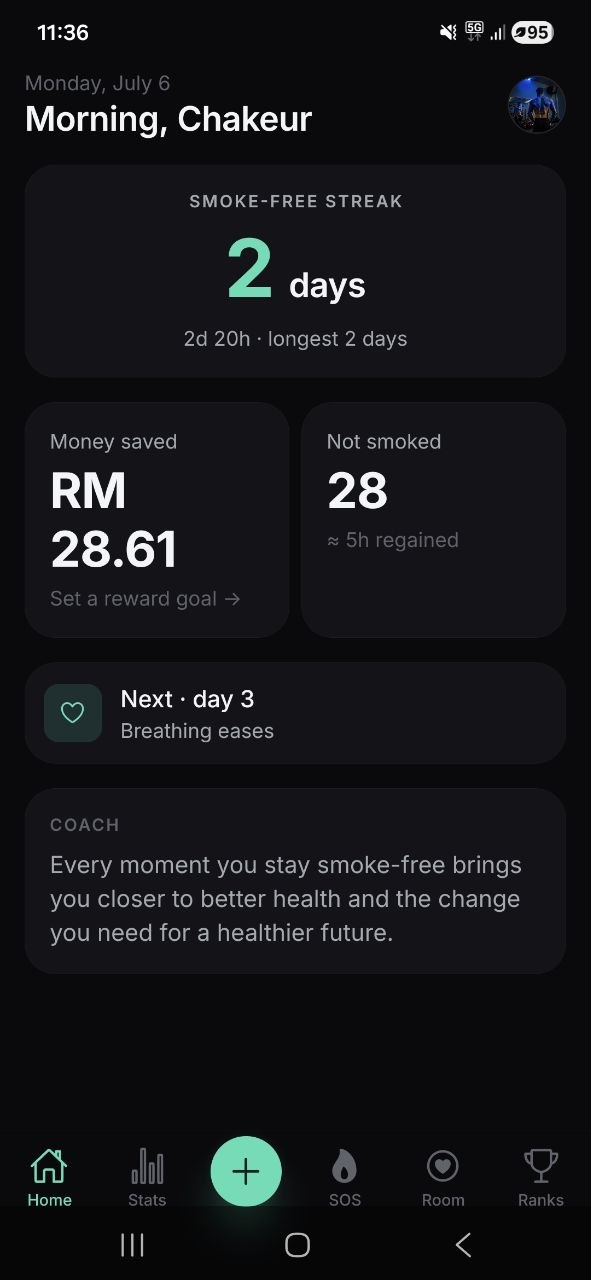
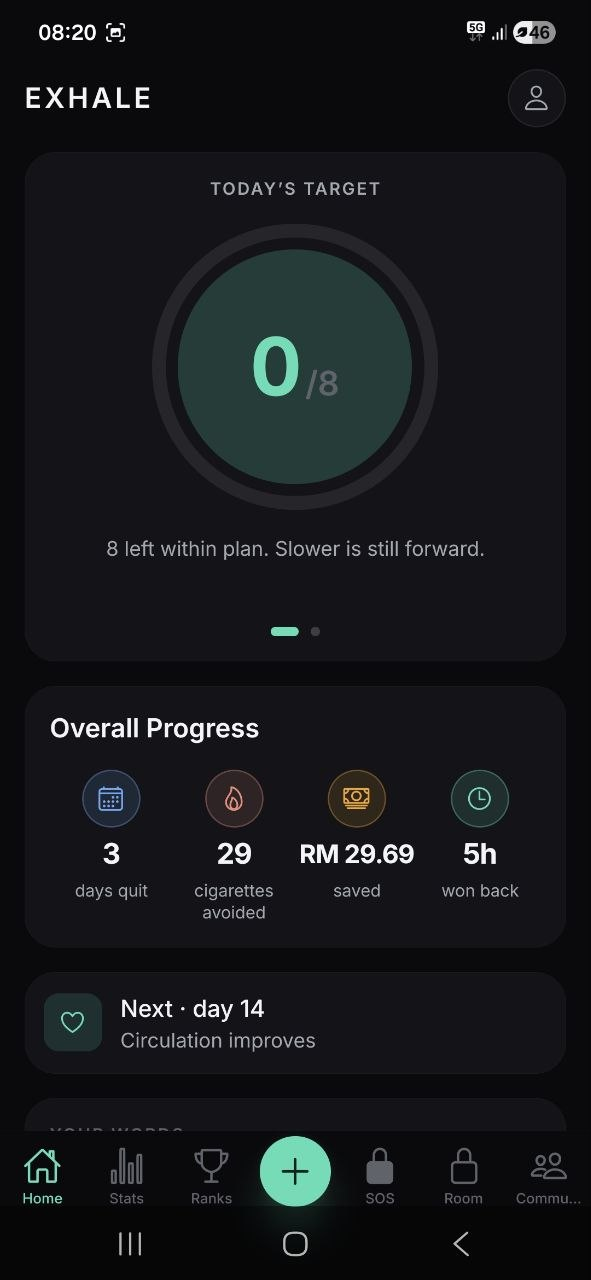
Landing: regional pricing + real lungs/community/home screenshots
Prices now match where the visitor is. Region comes from the browser alone --
IANA timezone first (Kuala_Lumpur/Kuching -> MY, London -> GB, euro-zone
capitals -> EU), then the locale's region tag, defaulting to US. No geo-IP
service: nothing to pay for, rate-limit, or leak the visitor's IP to.

A PRICING table maps region -> {monthly, yearly, free}; dictionary strings
carry {monthly}/{yearly} tokens that applyLang fills, so the price line and
the FAQ localize in all four languages (verified headless: MY/US/FR/AR all
render the right currency, no leaked tokens, console clean).

The table is DISPLAY ONLY -- Google Play charges what Play Console's regional
prices say. The comment on the table says to keep them in sync.

Also drops in the real screenshots: lungs.png and community.png (new slots)
and a re-captured home.png showing the lungs hero.

diff --git a/landing_page_exhale/js/i18n.js b/landing_page_exhale/js/i18n.js
@@ -4,6 +4,52 @@
    innerHTML (trusted, own content). Arabic flips the page to RTL.
    ───────────────────────────────────────────────────────────── */
 
+/* ── Regional pricing ────────────────────────────────────────
+   ⚠ These numbers are DISPLAY ONLY. Google Play charges whatever is set in
+   Play Console → Monetization → premium_monthly/annual → Regional prices.
+   Keep this table in sync with those — the page must never promise a price
+   the store won't honor. Add a row per country you price explicitly;
+   everyone else sees the US price.                                        */
+const PRICING = {
+  US: { monthly: '$3.99', yearly: '$35.99', free: '$0' },
+  MY: { monthly: 'RM 15.90', yearly: 'RM 142.90', free: 'RM 0' },
+  GB: { monthly: '£2.99', yearly: '£26.99', free: '£0' },
+  EU: { monthly: '€3.49', yearly: '€30.99', free: '€0' },
+};
+
+const EU_REGIONS = ['FR', 'DE', 'ES', 'IT', 'NL', 'BE', 'PT', 'IE', 'AT', 'FI', 'GR'];
+
+/* Country from the browser alone — timezone first (can't be faked by the UI
+   language), then the locale's region tag. No geo-IP service: nothing to pay
+   for, rate-limit, or leak the visitor's IP to.                           */
+function detectRegion() {
+  try {
+    const tz = Intl.DateTimeFormat().resolvedOptions().timeZone || '';
+    if (tz === 'Asia/Kuala_Lumpur' || tz === 'Asia/Kuching') return 'MY';
+    if (tz === 'Europe/London') return 'GB';
+    if (/^Europe\/(Paris|Brussels|Berlin|Madrid|Rome|Amsterdam|Lisbon|Dublin|Vienna|Helsinki|Athens|Luxembourg|Malta|Bratislava|Ljubljana|Tallinn|Riga|Vilnius|Zagreb|Nicosia)$/.test(tz))
+      return 'EU';
+  } catch (e) {}
+  const region = ((navigator.language || '').split('-')[1] || '').toUpperCase();
+  if (PRICING[region]) return region;
+  if (EU_REGIONS.includes(region)) return 'EU';
+  return 'US';
+}
+
+const PRICES = PRICING[detectRegion()];
+
+/** Dict strings may carry {monthly} / {yearly} — filled from PRICES. */
+function withPrices(text) {
+  return text.replace(/\{monthly\}/g, PRICES.monthly).replace(/\{yearly\}/g, PRICES.yearly);
+}
+
+function applyPrices() {
+  const monthly = document.getElementById('priceMonthly');
+  if (monthly) monthly.textContent = PRICES.monthly;
+  const free = document.getElementById('priceFree');
+  if (free) free.textContent = PRICES.free;
+}
+
 const I18N = {
   en: {
     'nav.cta': 'Get the app',
@@ -73,7 +119,7 @@ const I18N = {
     'pr.f4': 'Daily coach line & weekly insight',
     'pr.f5': 'Community — chat with quitters worldwide',
     'pr.popular': 'Most popular', 'pr.proName': 'Premium', 'pr.perMonth': '/month',
-    'pr.yearly': 'or $35.99/year — save 25%',
+    'pr.yearly': 'or {yearly}/year — save 25%',
     'pr.proNote': 'For the moments that decide everything.',
     'pr.p1': 'Everything in Free',
     'pr.p2': 'Craving SOS toolkit & breathing timer',
@@ -89,7 +135,7 @@ const I18N = {
     'fq.q3': 'Which languages are supported?',
     'fq.a3': 'English, Bahasa Melayu, Arabic and French — across the whole app, including the AI coach, which replies in your chosen language.',
     'fq.q4': 'What does it cost?',
-    'fq.a4': 'The core app — including Community — is free forever. Premium unlocks the Craving SOS toolkit, the live AI coach and The Room: $3.99/month, or $35.99/year (25% off). Cancel anytime.',
+    'fq.a4': 'The core app — including Community — is free forever. Premium unlocks the Craving SOS toolkit, the live AI coach and The Room: {monthly}/month, or {yearly}/year (25% off). Cancel anytime.',
     'fq.q5': 'Does it work for vaping too?',
     'fq.a5': 'Yes — cigarettes, vaping, rolled tobacco and shisha. The stats and savings adapt to what you use.',
     'fq.q6': 'Is there a community?',
@@ -170,7 +216,7 @@ const I18N = {
     'pr.f4': 'Kata jurulatih harian & tinjauan mingguan',
     'pr.f5': 'Komuniti — sembang dengan pejuang seluruh dunia',
     'pr.popular': 'Paling popular', 'pr.proName': 'Premium', 'pr.perMonth': '/bulan',
-    'pr.yearly': 'atau $35.99/tahun — jimat 25%',
+    'pr.yearly': 'atau {yearly}/tahun — jimat 25%',
     'pr.proNote': 'Untuk saat-saat yang menentukan segalanya.',
     'pr.p1': 'Semua dalam Percuma',
     'pr.p2': 'Kit SOS Keinginan & pemasa pernafasan',
@@ -186,7 +232,7 @@ const I18N = {
     'fq.q3': 'Bahasa apa yang disokong?',
     'fq.a3': 'Inggeris, Bahasa Melayu, Arab dan Perancis — di seluruh apl, termasuk jurulatih AI yang membalas dalam bahasa pilihan anda.',
     'fq.q4': 'Berapa kosnya?',
-    'fq.a4': 'Apl teras — termasuk Komuniti — percuma selamanya. Premium membuka Kit SOS Keinginan, jurulatih AI langsung dan Bilik: $3.99/bulan atau $35.99/tahun (jimat 25%). Batal bila-bila masa.',
+    'fq.a4': 'Apl teras — termasuk Komuniti — percuma selamanya. Premium membuka Kit SOS Keinginan, jurulatih AI langsung dan Bilik: {monthly}/bulan atau {yearly}/tahun (jimat 25%). Batal bila-bila masa.',
     'fq.q5': 'Adakah ia berfungsi untuk vape juga?',
     'fq.a5': 'Ya — rokok, vape, tembakau gulung dan shisha. Statistik dan penjimatan disesuaikan dengan apa yang anda guna.',
     'fq.q6': 'Adakah terdapat komuniti?',
@@ -267,7 +313,7 @@ const I18N = {
     'pr.f4': 'Phrase du coach quotidienne & bilan hebdo',
     'pr.f5': 'Communauté — parlez avec d’autres personnes qui arrêtent',
     'pr.popular': 'Le plus choisi', 'pr.proName': 'Premium', 'pr.perMonth': '/mois',
-    'pr.yearly': 'ou 35,99 $/an — 25 % d’économie',
+    'pr.yearly': 'ou {yearly}/an — 25 % d’économie',
     'pr.proNote': 'Pour les moments qui décident de tout.',
     'pr.p1': 'Tout le gratuit',
     'pr.p2': 'Kit SOS Envie & minuteur de respiration',
@@ -283,7 +329,7 @@ const I18N = {
     'fq.q3': 'Quelles langues sont prises en charge ?',
     'fq.a3': 'Anglais, malais, arabe et français — dans toute l’app, y compris le coach IA qui répond dans votre langue.',
     'fq.q4': 'Combien ça coûte ?',
-    'fq.a4': 'L’app de base — Communauté incluse — est gratuite pour toujours. Premium débloque le kit SOS Envie, le coach IA en direct et le Refuge : 3,99 $/mois ou 35,99 $/an (−25 %). Annulable à tout moment.',
+    'fq.a4': 'L’app de base — Communauté incluse — est gratuite pour toujours. Premium débloque le kit SOS Envie, le coach IA en direct et le Refuge : {monthly}/mois ou {yearly}/an (−25 %). Annulable à tout moment.',
     'fq.q5': 'Ça marche aussi pour la vape ?',
     'fq.a5': 'Oui — cigarettes, vape, tabac à rouler et chicha. Les stats et économies s’adaptent à ce que vous consommez.',
     'fq.q6': 'Y a-t-il une communauté ?',
@@ -364,7 +410,7 @@ const I18N = {
     'pr.f4': 'جملة المدرّب اليومية والتقرير الأسبوعي',
     'pr.f5': 'المجتمع — تحدّث مع مُقلعين حول العالم',
     'pr.popular': 'الأكثر شيوعًا', 'pr.proName': 'بريميوم', 'pr.perMonth': '/شهر',
-    'pr.yearly': 'أو 35.99$ سنويًا — وفّر 25%',
+    'pr.yearly': 'أو {yearly} سنويًا — وفّر 25%',
     'pr.proNote': 'للحظات التي تحسم كل شيء.',
     'pr.p1': 'كل ما في المجاني',
     'pr.p2': 'أدوات نجدة الرغبة ومؤقّت التنفّس',
@@ -380,7 +426,7 @@ const I18N = {
     'fq.q3': 'ما اللغات المدعومة؟',
     'fq.a3': 'الإنجليزية والماليزية والعربية والفرنسية — في كامل التطبيق، بما في ذلك المدرّب الذي يردّ بلغتك المختارة.',
     'fq.q4': 'كم يكلّف؟',
-    'fq.a4': 'التطبيق الأساسي — بما فيه المجتمع — مجاني للأبد. بريميوم يفتح أدوات نجدة الرغبة والمدرّب المباشر والغرفة: 3.99$ شهريًا أو 35.99$ سنويًا (خصم 25%). ألغِ في أي وقت.',
+    'fq.a4': 'التطبيق الأساسي — بما فيه المجتمع — مجاني للأبد. بريميوم يفتح أدوات نجدة الرغبة والمدرّب المباشر والغرفة: {monthly} شهريًا أو {yearly} سنويًا (خصم 25%). ألغِ في أي وقت.',
     'fq.q5': 'هل يعمل للفيب أيضًا؟',
     'fq.a5': 'نعم — السجائر والفيب والتبغ الملفوف والشيشة. تتكيّف الإحصائيات والتوفير مع ما تستخدمه.',
     'fq.q6': 'هل يوجد مجتمع؟',
@@ -400,8 +446,9 @@ function applyLang(lang) {
   const dict = I18N[lang] || I18N.en;
   document.querySelectorAll('[data-i18n]').forEach((el) => {
     const key = el.getAttribute('data-i18n');
-    if (dict[key] != null) el.innerHTML = dict[key];
+    if (dict[key] != null) el.innerHTML = withPrices(dict[key]);
   });
+  applyPrices();
 
   const rtl = RTL_LANGS.includes(lang);
   document.documentElement.lang = lang;

diff --git a/landing_page_exhale/index.html b/landing_page_exhale/index.html
@@ -356,7 +356,7 @@
         <!-- Free -->
         <div class="price-card" data-reveal>
           <h3 class="price-name" data-i18n="pr.freeName">Free</h3>
-          <div class="price-amount">RM 0</div>
+          <div class="price-amount" id="priceFree">RM 0</div>
           <p class="price-note" data-i18n="pr.freeNote">Everything you need to quit.</p>
           <ul class="price-list">
             <li class="check" data-i18n="pr.f1">Smoke-free streak &amp; money saved</li>
@@ -370,7 +370,7 @@
         <div class="price-card price-card--pro" data-reveal>
           <div class="price-tag" data-i18n="pr.popular">Most popular</div>
           <h3 class="price-name" data-i18n="pr.proName">Premium</h3>
-          <div class="price-amount">$3.99<span class="price-per" data-i18n="pr.perMonth">/month</span></div>
+          <div class="price-amount"><span id="priceMonthly">$3.99</span><span class="price-per" data-i18n="pr.perMonth">/month</span></div>
           <p class="mt-1 text-sm font-semibold text-teal" data-i18n="pr.yearly">or $35.99/year — save 25%</p>
           <p class="price-note" data-i18n="pr.proNote">For the moments that decide everything.</p>
           <ul class="price-list">